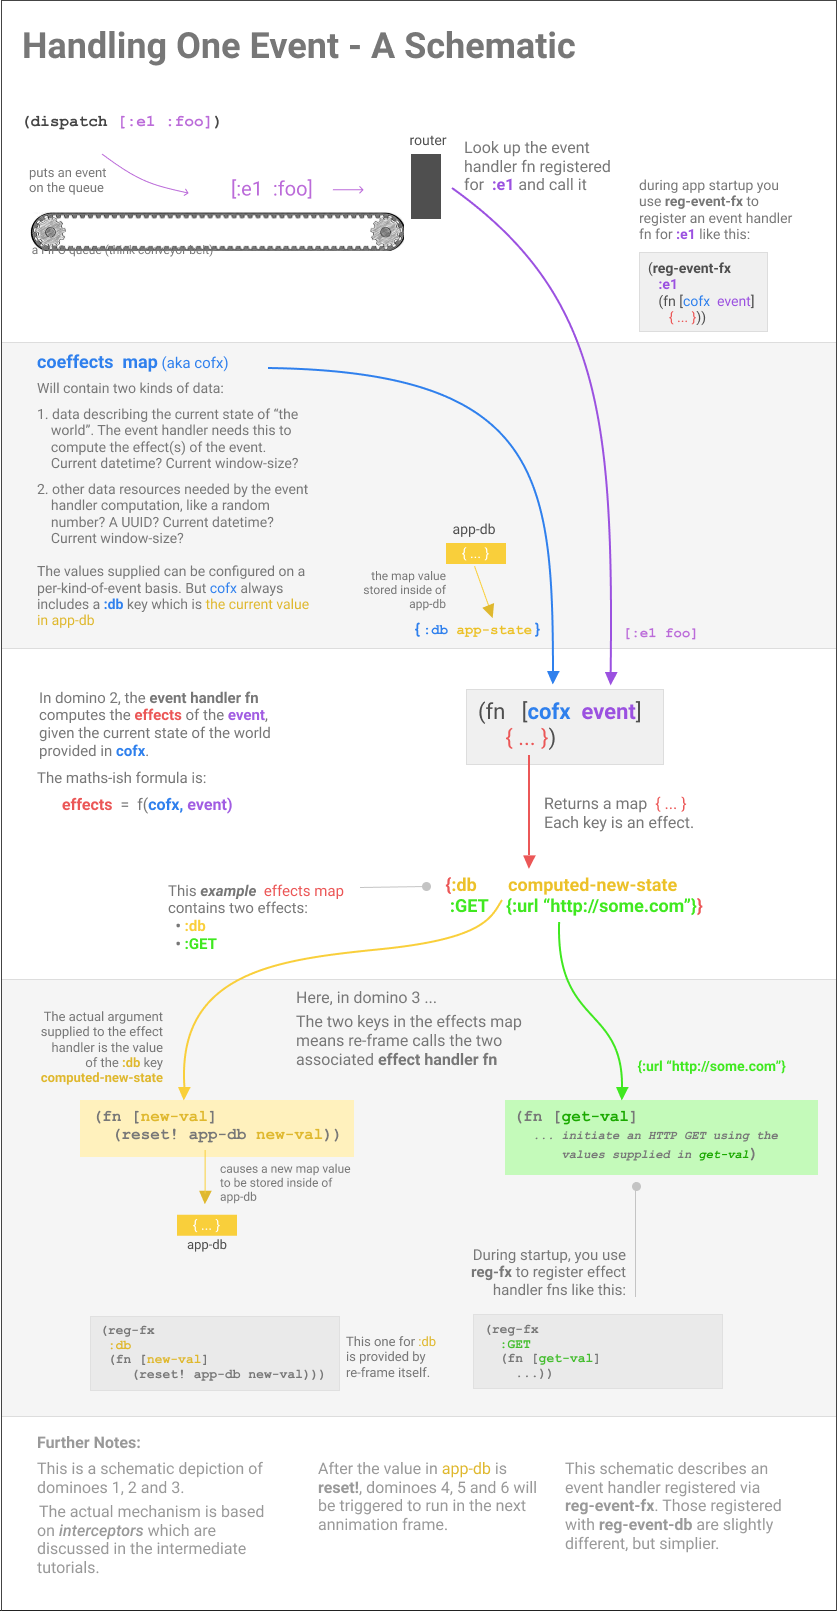
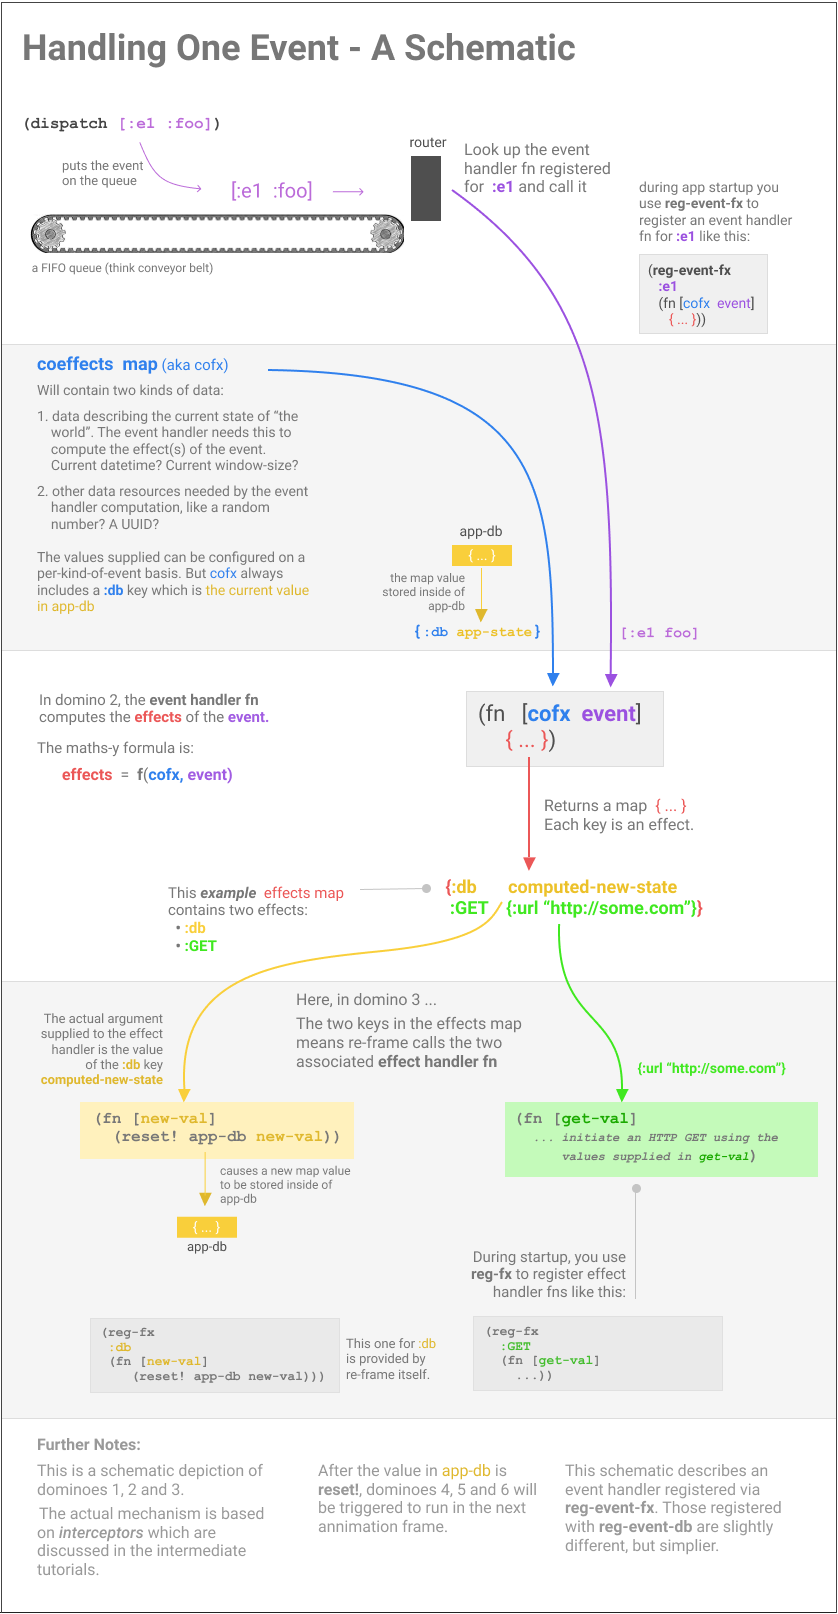
docs: move subscriptions page into basic section.  Improve infographic.

diff --git a/docs/subscriptions.md b/docs/subscriptions.md
@@ -176,10 +176,3 @@ The `Layer 3` subscription above can be rewritten using some syntactic sugar:
   (fn [[a b] _]
        (calculate-it a b)))
 ```
-
-## Review TodoMVC
-
-Please carefully review the heavily commented subscription code
-[in the todomvc example](https://github.com/day8/re-frame/blob/master/examples/todomvc/src/todomvc/subs.cljs). 
-It will provide more perspective and explanation on how to use `reg-sub` to create `Layer 2` and `Layer 3` subscriptions. Plus real examples of how to use `:<-`
-

diff --git a/docs/review-todomvc.md b/docs/review-todomvc.md
@@ -1,0 +1,9 @@
+
+Please take time to carefully review the heavily commented todomvc example in this repo. 
+
+In particular, be sure to look at the [subscription code](https://github.com/day8/re-frame/blob/master/examples/todomvc/src/todomvc/subs.cljs). 
+
+This code will provide more perspective and explanation on how to use `reg-sub` to create `Layer 2` and `Layer 3` subscriptions. Plus real examples of how to use `:<-`. 
+
+
+

diff --git a/docs/a-loop.md b/docs/a-loop.md
@@ -13,7 +13,7 @@ So, Clojurists place particular emphasis on the primacy of data.
 
 They meditate on aphorisms like **_data is the ultimate in late binding_**. They 
 exalt inequalities like `data > functions > macros`. (Disappointingly,
-they also re-watch Rich Hickey videos a bit too much, while wishing
+they also re-watch Rich Hickey videos a bit too much, and wish that
 their hair was darker and more curly.)
 
 
